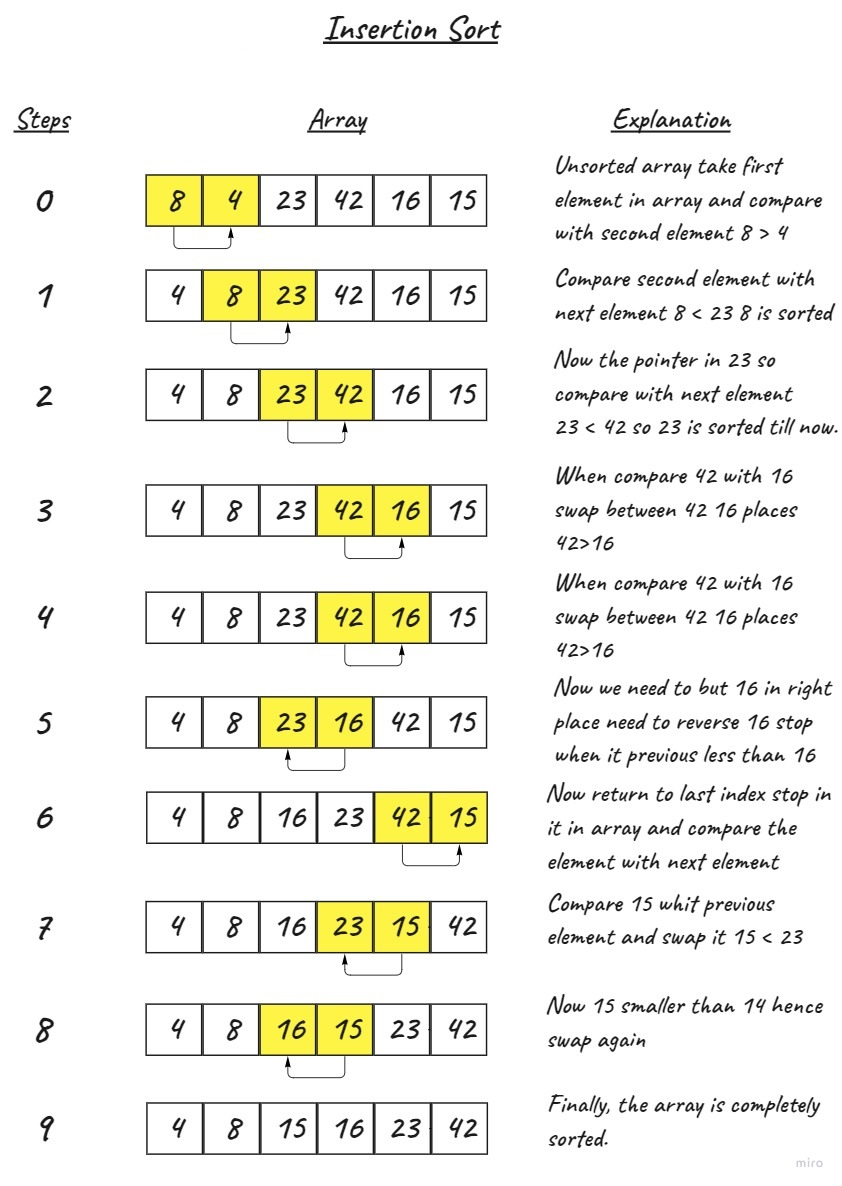
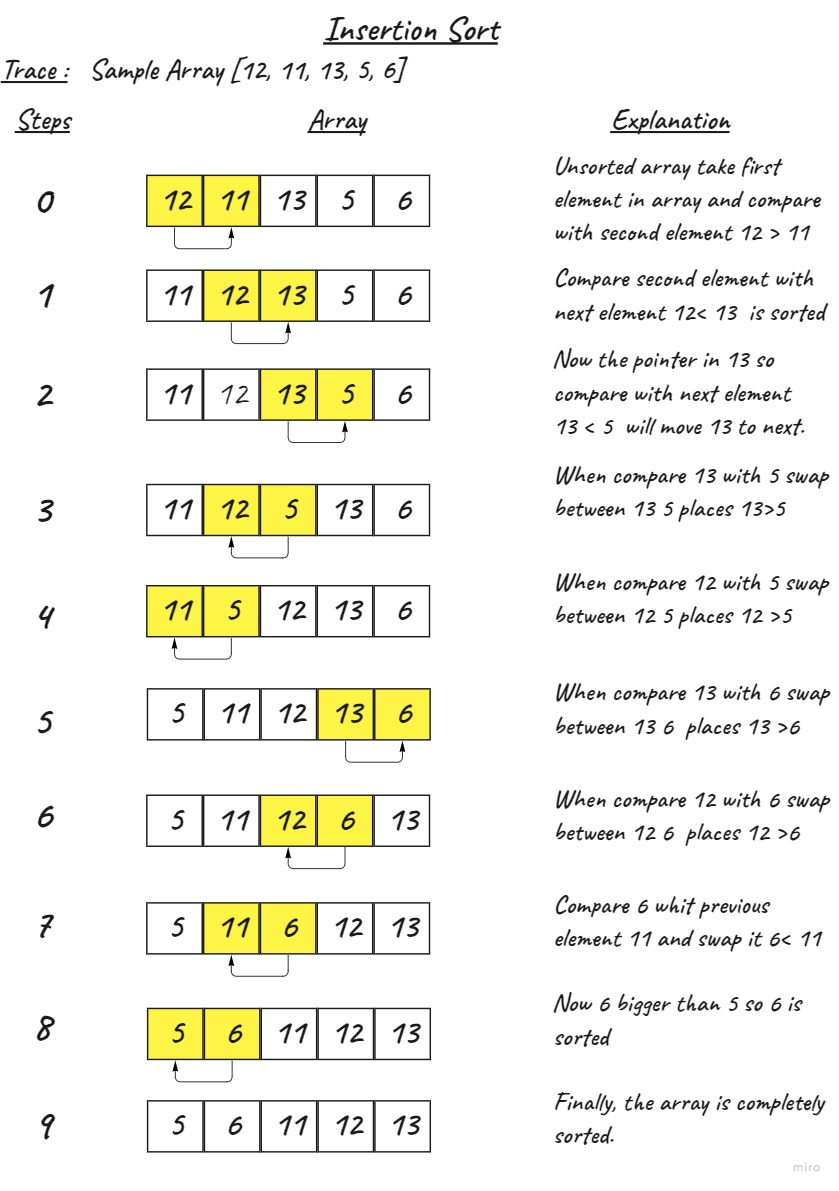
Edit Insertion img

diff --git a/Challenge/Algorithm/Insertion-Sort/BLOG.md b/Challenge/Algorithm/Insertion-Sort/BLOG.md
@@ -22,7 +22,7 @@ Insertion sort : is a simple sorting algorithm that works similar to the way you
 
 ## Trace
 
-Sample Array: [8,4,23,42,16,15]
+Sample Array: [12, 11, 13, 5, 6]
 
 ![InsertionSort](./img/InsertionSort.jpg)
 
